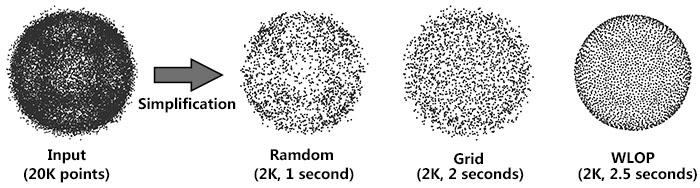
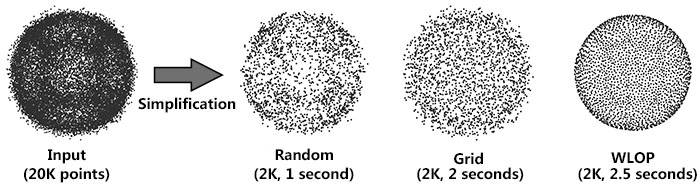
added documentation renamed weight_functor to weight_function changed some default values of named parameters

Changed region(s): [[0.36, 0.7979, 0.45, 0.8511]]

diff --git a/Point_set_processing_3/include/CGAL/poisson_eliminate.h b/Point_set_processing_3/include/CGAL/poisson_eliminate.h
@@ -118,11 +118,12 @@ public:
   }
 };
 
+template<class Point>
 class Weight_functor {
 public:
   Weight_functor(double r_min = 0, double alpha = 8) : r_min(CGAL::to_double(r_min)), alpha(CGAL::to_double(alpha)) {}
 
-  double operator()(double d2, double r_max) {
+  double operator()(const Point &, const Point &, double d2, double r_max) {
     double d = CGAL::sqrt(d2);
     if (d < r_min) d = r_min;
     return std::pow(double(1) - d / r_max, alpha);
@@ -197,6 +198,12 @@ void pop_heap(std::vector<std::size_t>& heap, std::vector<std::size_t>& heap_pos
          \cgalParamDefault{`CGAL::Identity_property_map<geom_traits::Point_3>`}
        \cgalParamNEnd
 
+       \cgalParamNBegin{dimension}
+         \cgalParamDescription{The sampling domain of `points`, e.g., 2 if the points have been sampled from a 2d surface.}
+         \cgalParamType{unsigned integer}
+         \cgalParamDefault{2}
+       \cgalParamNEnd
+
        \cgalParamNBegin{progressive}
          \cgalParamDescription{reorders the points in `output` in a progressive way, i.e., the first n points in `output` with n < `number_of_points` have a poisson disk distribution with a larger radius. }
          \cgalParamType{Boolean}
@@ -206,11 +213,13 @@ void pop_heap(std::vector<std::size_t>& heap, std::vector<std::size_t>& heap_pos
        \cgalParamNBegin{maximum_radius}
          \cgalParamDescription{radius of the poisson disk in which the neighboring points are taken into account for elimination.}
          \cgalParamType{double}
+         \cgalParamDefault{the default is calculated from the `dimension`, the volume of the bounding box and the `number_of_points`. For more details, see \ref Point_set_processing_3PoissonElimination.}
        \cgalParamNEnd
 
-       \cgalParamNBegin{weight_functor}
-         \cgalParamDescription{a weight functor that calculates the weight of a neighbor point based on its squared distance and the `maximum_radius`.}
-         \cgalParamType{an instance of `std::function<double(double,double)>`.}
+       \cgalParamNBegin{weight_function}
+         \cgalParamDescription{a weight function that calculates the weight of a neighbor point based on its squared distance and the `maximum_radius`.}
+         \cgalParamType{an instance of `std::function<double(const Point&, const Point&, double,double)>`.}
+         \cgalParamDefault{See \ref Point_set_processing_3PoissonElimination.}
        \cgalParamNEnd
 
        \cgalParamNBegin{geom_traits}
@@ -227,8 +236,8 @@ void poisson_eliminate(PointRange points, std::size_t number_of_points, OutputIt
 
   using NP_helper = Point_set_processing_3_np_helper<PointRange, NamedParameters>;
   using PointMap = typename NP_helper::Point_map;
-  using Point = typename boost::property_traits<PointMap>::value_type;
-  using GeomTraits = typename Kernel_traits<Point>::Kernel;
+  using Point = typename NP_helper::Point;
+  using GeomTraits = typename NP_helper::Geom_traits;
   using FT = typename GeomTraits::FT;
   using IPM = internal::Indexed_extended_point_map<PointRange, PointMap>;
   PointMap point_map = NP_helper::get_point_map(points, np);
@@ -255,13 +264,13 @@ void poisson_eliminate(PointRange points, std::size_t number_of_points, OutputIt
   // named parameter for tiling
   const bool tiling = parameters::choose_parameter(parameters::get_parameter(np, internal_np::tiling), false);
   const unsigned int ambient_dimension = CGAL::Ambient_dimension<Point>::value;
-  const unsigned int dimension = parameters::choose_parameter(parameters::get_parameter(np, internal_np::dimension), ambient_dimension);
+  const unsigned int dimension = parameters::choose_parameter(parameters::get_parameter(np, internal_np::dimension), 2);
 
   // named parameter for r_max
   double r_max = CGAL::to_double(parameters::choose_parameter(parameters::get_parameter(np, internal_np::maximum_radius), 2 * internal::get_maximum_radius(dimension, number_of_points, domain_size)));
   double r_min = CGAL::to_double(weight_limiting ? internal::get_minimum_radius(points.size(), number_of_points, beta, gamma, r_max) : 0);
 
-  auto weight_functor = parameters::choose_parameter(parameters::get_parameter(np, internal_np::weight_functor), internal::Weight_functor(r_min, alpha));
+  auto weight_functor = parameters::choose_parameter(parameters::get_parameter(np, internal_np::weight_function), internal::Weight_functor<Point>(r_min, alpha));
 
   std::size_t heap_size = points.size();
   std::vector<Point> tiling_points;
@@ -325,7 +334,7 @@ void poisson_eliminate(PointRange points, std::size_t number_of_points, OutputIt
 
         const Point p2 = get(ipm, res[n]);
         double d2 = CGAL::to_double((p - p2).squared_length());
-        weights[i] += weight_functor(d2, r_max);
+        weights[i] += weight_functor(p, p2, d2, r_max);
       }
     }
 
@@ -356,7 +365,7 @@ void poisson_eliminate(PointRange points, std::size_t number_of_points, OutputIt
         const Point p2 = get(point_map, points[res[n]]);
         double d2 = CGAL::to_double((p - p2).squared_length());
 
-        weights[res[n]] -= weight_functor(d2, r_max);
+        weights[res[n]] -= weight_functor(p2, p, d2, r_max);
 
         internal::move_down(heap, heap_pos, heap_size, weights, heap_pos[res[n]]);
       }

diff --git a/Point_set_processing_3/examples/Point_set_processing_3/poisson_eliminate_example.cpp b/Point_set_processing_3/examples/Point_set_processing_3/poisson_eliminate_example.cpp
@@ -8,12 +8,15 @@
 #include <CGAL/poisson_eliminate.h>
 #include <CGAL/IO/write_points.h>
 #include <CGAL/IO/read_points.h>
-#include <CGAL/Real_timer.h>
 
 typedef CGAL::Simple_cartesian<double> K;
 typedef K::Point_3 Point_3;
 
-void sampling(const std::string& filename) {
+void sampling(const std::string& filename, double size_factor = 0.2) {
+  if (size_factor >= 1.0) {
+    std::cout << "usage poisson_eliminate_example filename size_factor" << std::endl << "0 < size_factor < 1" << std::endl;
+    return;
+  }
   std::vector<Point_3> points;
 
   if (!CGAL::IO::read_points(
@@ -24,54 +27,13 @@ void sampling(const std::string& filename) {
     return;
   }
 
-  std::size_t target_size = points.size() / 5;
-
-  bool progressive = true;
-  bool weight_limiting = false;
-  bool tiling = false;
+  std::size_t target_size = std::size_t(points.size() * size_factor);
   std::vector<Point_3> output;
-
-#ifdef CGAL_USE_CY
-  std::vector<cy::Vec3d> inputPoints, outputPoints;
-  std::vector<Point_3> out;
-
-  for (int i = 0; i < points.size(); ++i)
-    inputPoints.push_back(cy::Vec3d(CGAL::to_double(points[i].x()), CGAL::to_double(points[i].y()), CGAL::to_double(points[i].z())));
-
-  outputPoints.resize(target_size);
-
-  CGAL::Bbox_3 bb = CGAL::bbox_3(points.begin(), points.end());
-  cy::Vec3d bl(bb.xmin(), bb.ymin(), bb.zmin());
-  cy::Vec3d tr(bb.xmax(), bb.ymax(), bb.zmax());
-
-  cy::WeightedSampleElimination< cy::Vec3d, double, 3, int > wse;
-  wse.SetBoundsMin(bl);
-  wse.SetBoundsMax(tr);
-  wse.SetTiling(tiling);
-#endif
-
   output.reserve(target_size);
-  CGAL::Real_timer timer;
-  timer.start();
-  CGAL::poisson_eliminate(points, target_size, std::back_inserter(output), CGAL::parameters::progressive(progressive).weight_limiting(weight_limiting).tiling(tiling));
-  timer.stop();
-  std::cout << std::endl << timer.time() << std::endl;
+
+  CGAL::poisson_eliminate(points, target_size, std::back_inserter(output));
+
   CGAL::IO::write_points("out.xyz", output, CGAL::parameters::stream_precision(17));
-
-#ifdef CGAL_USE_CY
-  timer.reset();
-  timer.start();
-  wse.SetWeightLimiting(weight_limiting);
-  wse.Eliminate(inputPoints.data(), int(inputPoints.size()),
-    outputPoints.data(), int(outputPoints.size()), progressive);
-  timer.stop();
-  std::cout << timer.time() << std::endl;
-
-  for (const cy::Vec3d& p : outputPoints) {
-    out.push_back(Point_3(p.x, p.y, p.z));
-  }
-  CGAL::IO::write_points("out_ref.xyz", out, CGAL::parameters::stream_precision(17));
-#endif
 }
 
 
@@ -79,8 +41,10 @@ int main(int argc, char* argv[])
 {
   if (argc < 2)
     sampling(CGAL::data_file_path("points_3/radar.xyz"));
-  else
+  else if (argc < 3)
     sampling(argv[1]);
+  else if (argc < 4)
+    sampling(argv[1], std::atof(argv[2]));
 
   return 0;
 }

diff --git a/Point_set_processing_3/test/Point_set_processing_3/test_poisson_eliminate.cpp b/Point_set_processing_3/test/Point_set_processing_3/test_poisson_eliminate.cpp
@@ -10,6 +10,7 @@
 #include <CGAL/poisson_eliminate.h>
 #include <CGAL/compute_average_spacing.h>
 #include <CGAL/IO/read_points.h>
+#include <CGAL/IO/write_points.h>
 #include <CGAL/Real_timer.h>
 
 template<class K>
@@ -49,16 +50,23 @@ void sampling(const std::string& filename, Check_distance_functor check_average_
 
   std::cout << " " << points.size() << " input points" << std::endl;
 
-  std::size_t target_size = points.size() / 5;
+  std::size_t target_size = points.size() / 3;
 
   bool progressive = true;
   bool weight_limiting = false;
   bool tiling = false;
   std::vector<Point_3> output;
 
+  CGAL::Real_timer timer;
+
   output.reserve(target_size);
-  CGAL::poisson_eliminate(points, target_size, std::back_inserter(output), CGAL::parameters::progressive(progressive).weight_limiting(weight_limiting).tiling(tiling));
+  timer.start();
+  CGAL::poisson_eliminate(points, target_size, std::back_inserter(output), CGAL::parameters::dimension(2).progressive(progressive).weight_limiting(weight_limiting).tiling(tiling));
+  timer.stop();
+  std::cout << timer.time() << std::endl;
   std::cout << " " << output.size() << " points after elimination" << std::endl;
+
+  CGAL::IO::write_points("radar" + std::to_string(target_size) + "_2d.xyz", output, CGAL::parameters::stream_precision(17));
 
   assert(output.size() == target_size);
 
@@ -73,11 +81,11 @@ int main(int argc, char* argv[])
   std::cout << "testing Simple_cartesian<double>" << std::endl;
   sampling<CGAL::Simple_cartesian<double>>(CGAL::data_file_path("points_3/radar.xyz"), check< CGAL::Simple_cartesian<double>>);
 
-  std::cout << std::endl << "testing Exact_predicates_inexact_constructions_kernel" << std::endl;
-  sampling<CGAL::Exact_predicates_inexact_constructions_kernel>(CGAL::data_file_path("points_3/radar.xyz"), check< CGAL::Exact_predicates_inexact_constructions_kernel>);
+   std::cout << std::endl << "testing Exact_predicates_inexact_constructions_kernel" << std::endl;
+   sampling<CGAL::Exact_predicates_inexact_constructions_kernel>(CGAL::data_file_path("points_3/radar.xyz"), check< CGAL::Exact_predicates_inexact_constructions_kernel>);
 
-  std::cout << std::endl << "testing Exact_predicates_exact_constructions_kernel" << std::endl;
-  sampling<CGAL::Exact_predicates_exact_constructions_kernel>(CGAL::data_file_path("points_3/radar.xyz"), no_check);
+   std::cout << std::endl << "testing Exact_predicates_exact_constructions_kernel" << std::endl;
+   sampling<CGAL::Exact_predicates_exact_constructions_kernel>(CGAL::data_file_path("points_3/radar.xyz"), no_check);
 
   return 0;
 }

diff --git a/STL_Extension/include/CGAL/STL_Extension/internal/parameters_interface.h b/STL_Extension/include/CGAL/STL_Extension/internal/parameters_interface.h
@@ -164,7 +164,7 @@ CGAL_add_named_parameter(region_primitive_map_t, region_primitive_map, region_pr
 CGAL_add_named_parameter(postprocess_regions_t, postprocess_regions, postprocess_regions)
 CGAL_add_named_parameter(sizing_function_t, sizing_function, sizing_function)
 CGAL_add_named_parameter(bbox_scaling_t, bbox_scaling, bbox_scaling)
-CGAL_add_named_parameter(weight_functor_t, weight_functor, weight_functor)
+CGAL_add_named_parameter(weight_function_t, weight_function, weight_function)
 CGAL_add_named_parameter(weight_limiting_t, weight_limiting, weight_limiting)
 CGAL_add_named_parameter(progressive_t, progressive, progressive)
 CGAL_add_named_parameter(tiling_t, tiling, tiling)
